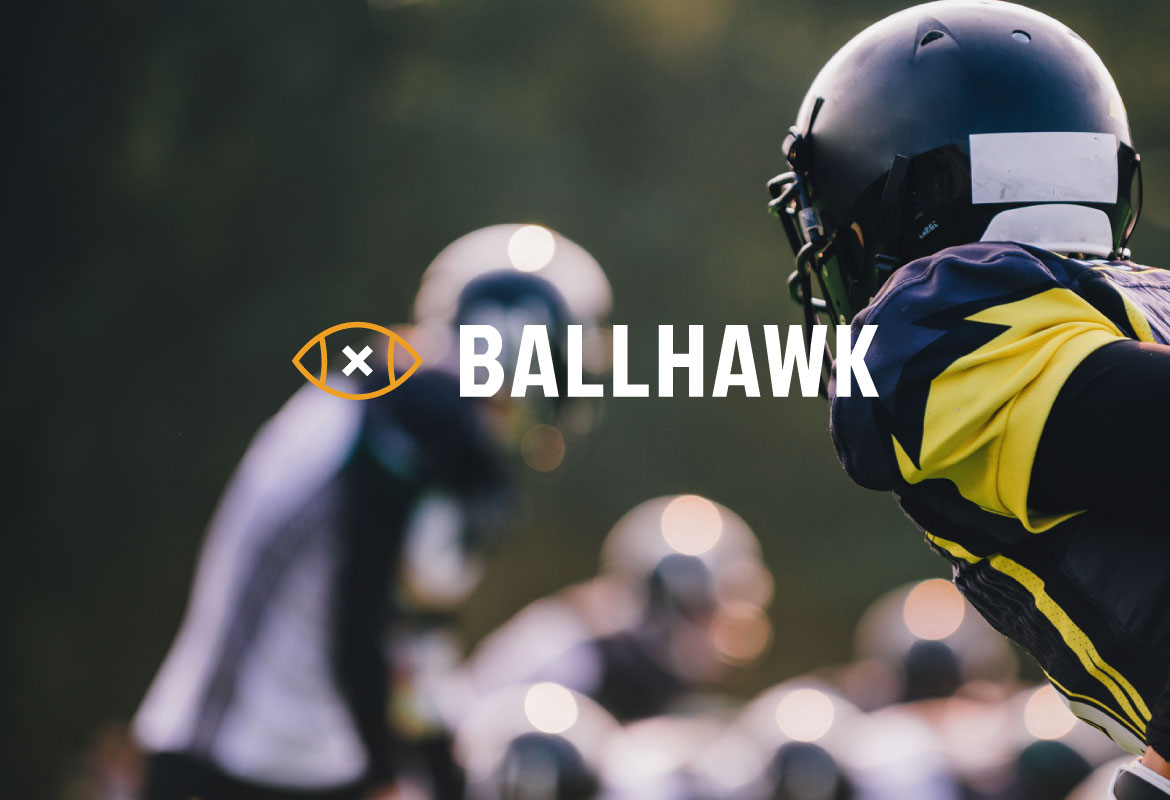
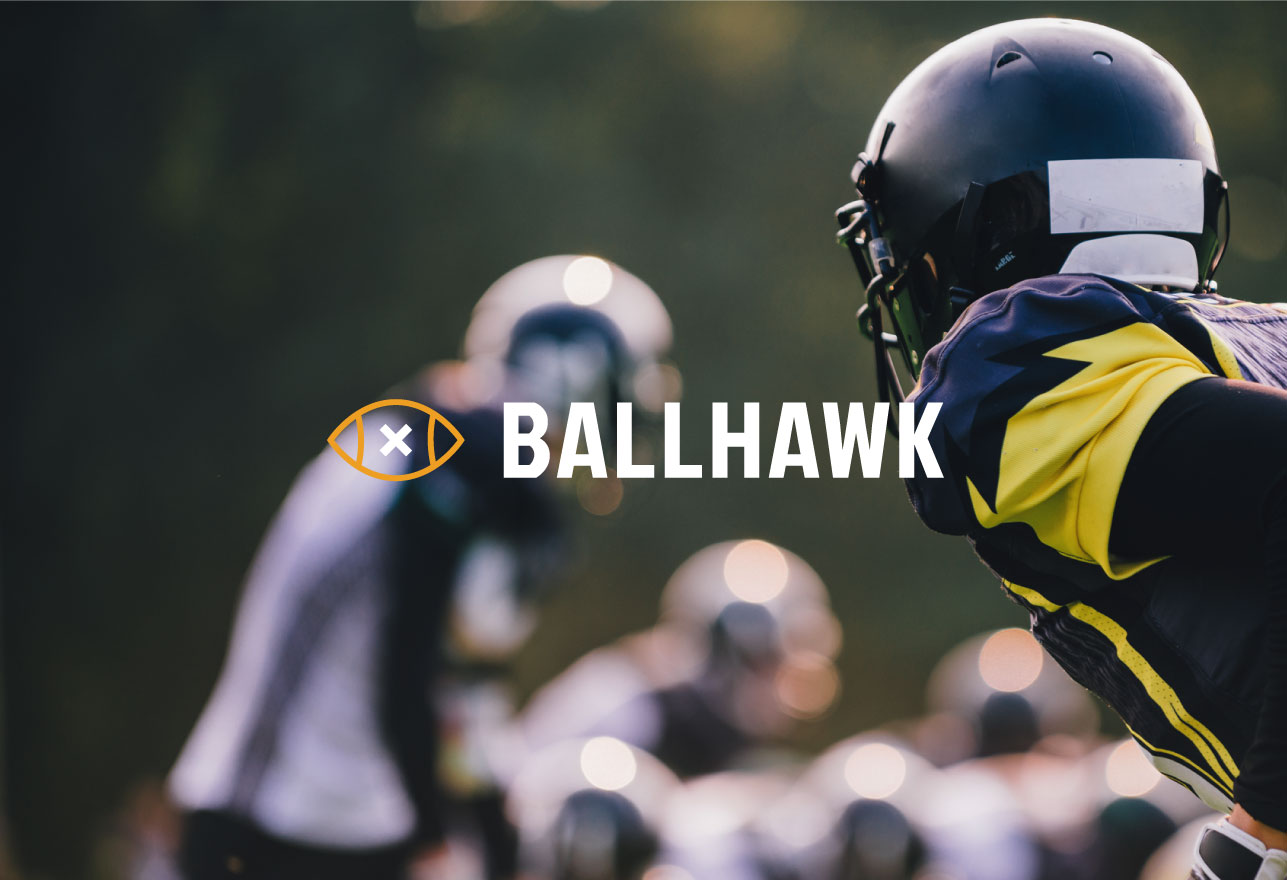
tweaked images and links

diff --git a/css/style.css b/css/style.css
@@ -48,12 +48,12 @@
     letter-spacing: 0.24px;
     margin-top: 10px; }
   #portfolio a {
-    border-bottom: 1px solid black;
-    display: inline;
     color: #37384C;
-    line-height: 22px; }
+    display: inline;
+    line-height: 22px;
+    padding: 4px; }
     #portfolio a:hover {
-      color: #FF4195;
+      border-bottom: 2px solid black;
       text-decoration: none; }
     #portfolio a:active, #portfolio a:visited, #portfolio a:focus {
       color: #37384C;
@@ -84,7 +84,8 @@
         clear: both; }
       #portfolio #main .column .item {
         margin: auto;
-        margin-top: 50px; }
+        margin-top: 50px;
+        height: 500px; }
         #portfolio #main .column .item.bio {
           display: none; }
         #portfolio #main .column .item p {
@@ -109,16 +110,13 @@
 /* In between XSmall & Small devices (phones & tablets, 480px and up) */
 /* Small devices (tablets, 768px and up) */
 @media (min-width: 1000px) {
-  .img-responsive {
-    max-width: 130%; }
-
   #portfolio .container {
     padding: 60px 0px; }
   #portfolio header h1 {
     text-align: right;
     position: fixed;
     z-index: 10;
-    right: 100px; }
+    right: 5%; }
   #portfolio header ul.nav {
     position: fixed;
     z-index: 10; }
@@ -126,6 +124,8 @@
     width: 50%; }
     #portfolio #main .column .item {
       margin-top: 150px; }
+      #portfolio #main .column .item img {
+        max-height: 440px; }
       #portfolio #main .column .item:first-of-type {
         margin-top: 70px; }
       #portfolio #main .column .item.bio {
@@ -134,26 +134,30 @@
         margin-top: 230px;
         font-size: 21px;
         line-height: 28px;
-        width: 50%; }
+        width: 50%;
+        height: auto; }
         #portfolio #main .column .item.bio p {
           font-size: 20px;
           font-weight: 400; }
-      #portfolio #main .column .item.vad {
-        margin-left: -20px; }
-      #portfolio #main .column .item.gusto {
-        margin-left: 100px; }
+      #portfolio #main .column .item.vad img {
+        margin-left: -100px; }
       #portfolio #main .column .item.zp {
         margin-top: 130px;
         margin-left: 20px; }
-      #portfolio #main .column .item.wiser {
-        margin-left: 30px; }
-        #portfolio #main .column .item.wiser img {
-          width: 470px; }
+        #portfolio #main .column .item.zp img {
+          margin-top: -20px;
+          margin-left: -100px; }
+        #portfolio #main .column .item.zp p {
+          margin-left: -100px; }
       #portfolio #main .column .item.ballhawk {
-        width: 500px; }
+        margin-top: 100px; }
+        #portfolio #main .column .item.ballhawk img,
+        #portfolio #main .column .item.ballhawk p {
+          margin-left: 19%; }
       #portfolio #main .column .item.watermelon {
-        margin-top: 150px;
-        margin-left: 60px; }
+        margin-top: 150px; }
+        #portfolio #main .column .item.watermelon img {
+          float: right; }
   #portfolio footer .bio {
     width: 50%; } }
 /* Large devices (large desktops, 1200px and up) */

diff --git a/css/style.scss b/css/style.scss
@@ -81,12 +81,12 @@ $cream-blue: #EAEAF3;
 	}
 
 	a {
-		border-bottom: 1px solid black;
-		display: inline;
 		color: $black;
+		display: inline;
 		line-height: 22px;
+		padding: 4px;
 		&:hover {
-			color: $pink;
+			border-bottom: 2px solid black;
 			text-decoration: none;
 		}
 		&:active, &:visited, &:focus {
@@ -130,6 +130,7 @@ $cream-blue: #EAEAF3;
 		 .item {
 			 	margin: auto;
 			 	margin-top: 50px;
+			 	height: 500px;
 			 	&.bio {
 			 		display: none;
 			 	}
@@ -179,9 +180,6 @@ $cream-blue: #EAEAF3;
 }
 
 @media (min-width: 1000px) {
-	.img-responsive {
-		max-width: 130%;
-	}
 	#portfolio {
 		.container {
 			padding: 60px 0px;
@@ -191,7 +189,7 @@ $cream-blue: #EAEAF3;
 				text-align: right;
 				position: fixed;
 				z-index: 10;
-				right: 100px;
+				right: 5%;
 			}
 			ul.nav {
 				position: fixed;
@@ -203,6 +201,9 @@ $cream-blue: #EAEAF3;
 		    width: 50%;
     		.item {
 					margin-top: 150px;
+					img {
+						max-height: 440px;
+					}
 					&:first-of-type {
 						margin-top: 70px;
 					}
@@ -213,33 +214,46 @@ $cream-blue: #EAEAF3;
 				    font-size: 21px;
 				    line-height: 28px;
 				    width: 50%;
+				    height: auto;
 				    p {
 				    	font-size: 20px;
 				    	font-weight: 400;
 				    }
 					}
 					&.vad {
-						margin-left: -20px;
-					}
-					&.gusto {
-						margin-left: 100px;
-					}
-					&.zp {
-						margin-top: 130px;
-					  margin-left: 20px;
-					}
-					&.wiser {
-						margin-left: 30px;
 						img {
-							width: 470px;
+							margin-left: -100px;
 						}
 					}
+					&.gusto {
+						
+					}
+					&.zp {
+						  margin-top: 130px;
+    					margin-left: 20px;
+						img {
+							margin-top: -20px;
+    					margin-left: -100px;
+						}
+						p {
+							margin-left: -100px;
+						}
+					}
+					&.wiser {
+						
+					}
 					&.ballhawk {
-						width: 500px;
+						margin-top: 100px;
+						img,
+						p {
+							margin-left: 19%;
+						}
 					}
 					&.watermelon {
 						margin-top: 150px;
-						margin-left: 60px;
+						img {
+							float: right;
+						}
 					}
 				}
 			}

diff --git a/index.php b/index.php
@@ -16,9 +16,9 @@
     <div class='container'>
       <div class='column'>
         <ul class='nav'>
-          <li>Work</li>
-          <li>About</li>
-          <li>Contact</li>
+          <li><a href='#'>Work</a></li>
+          <li><a href='#'>About</a></li>
+          <li><a href='#'>Contact</a></li>
         </ul>
       </div>
       <div class='column'>
@@ -36,7 +36,7 @@
             <span>Front-end development, branding, etc.</span>
           </p>
         </div>
-        <div class='item'>
+        <div class='item vad'>
           <img src='images/img-home-vad@2x.jpg' class='img-responsive'>
           <p>
             Vad Foundation
